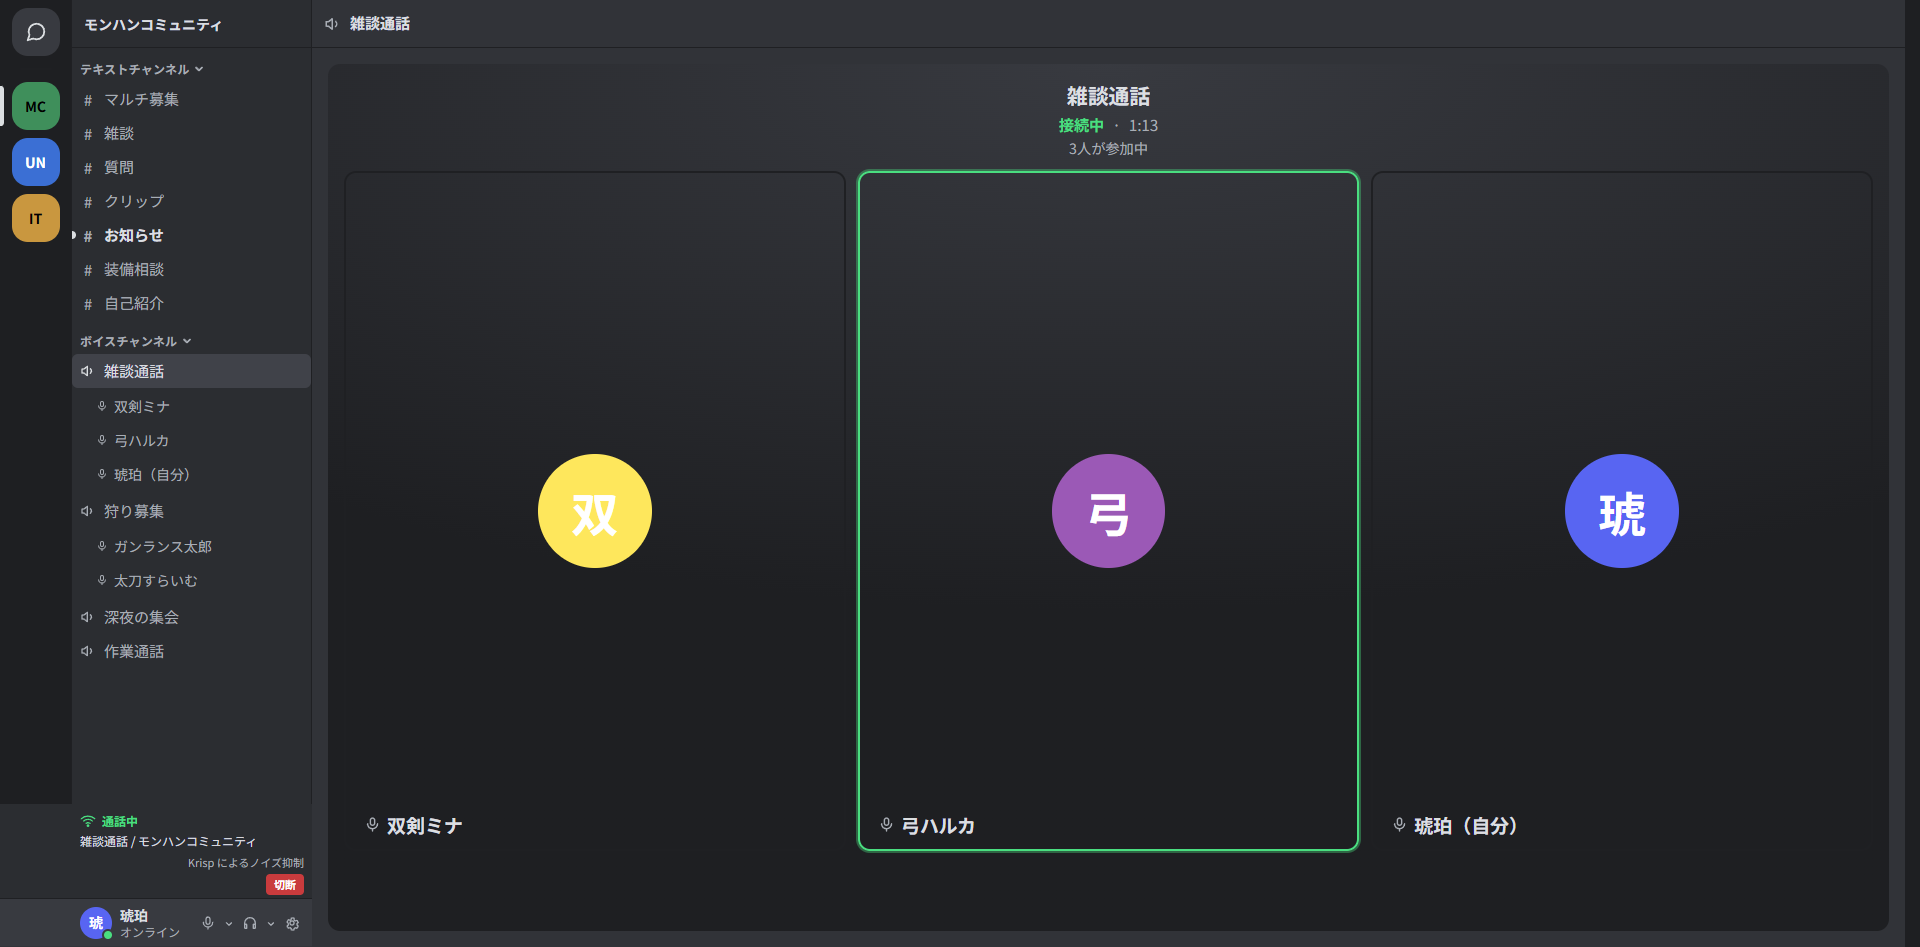
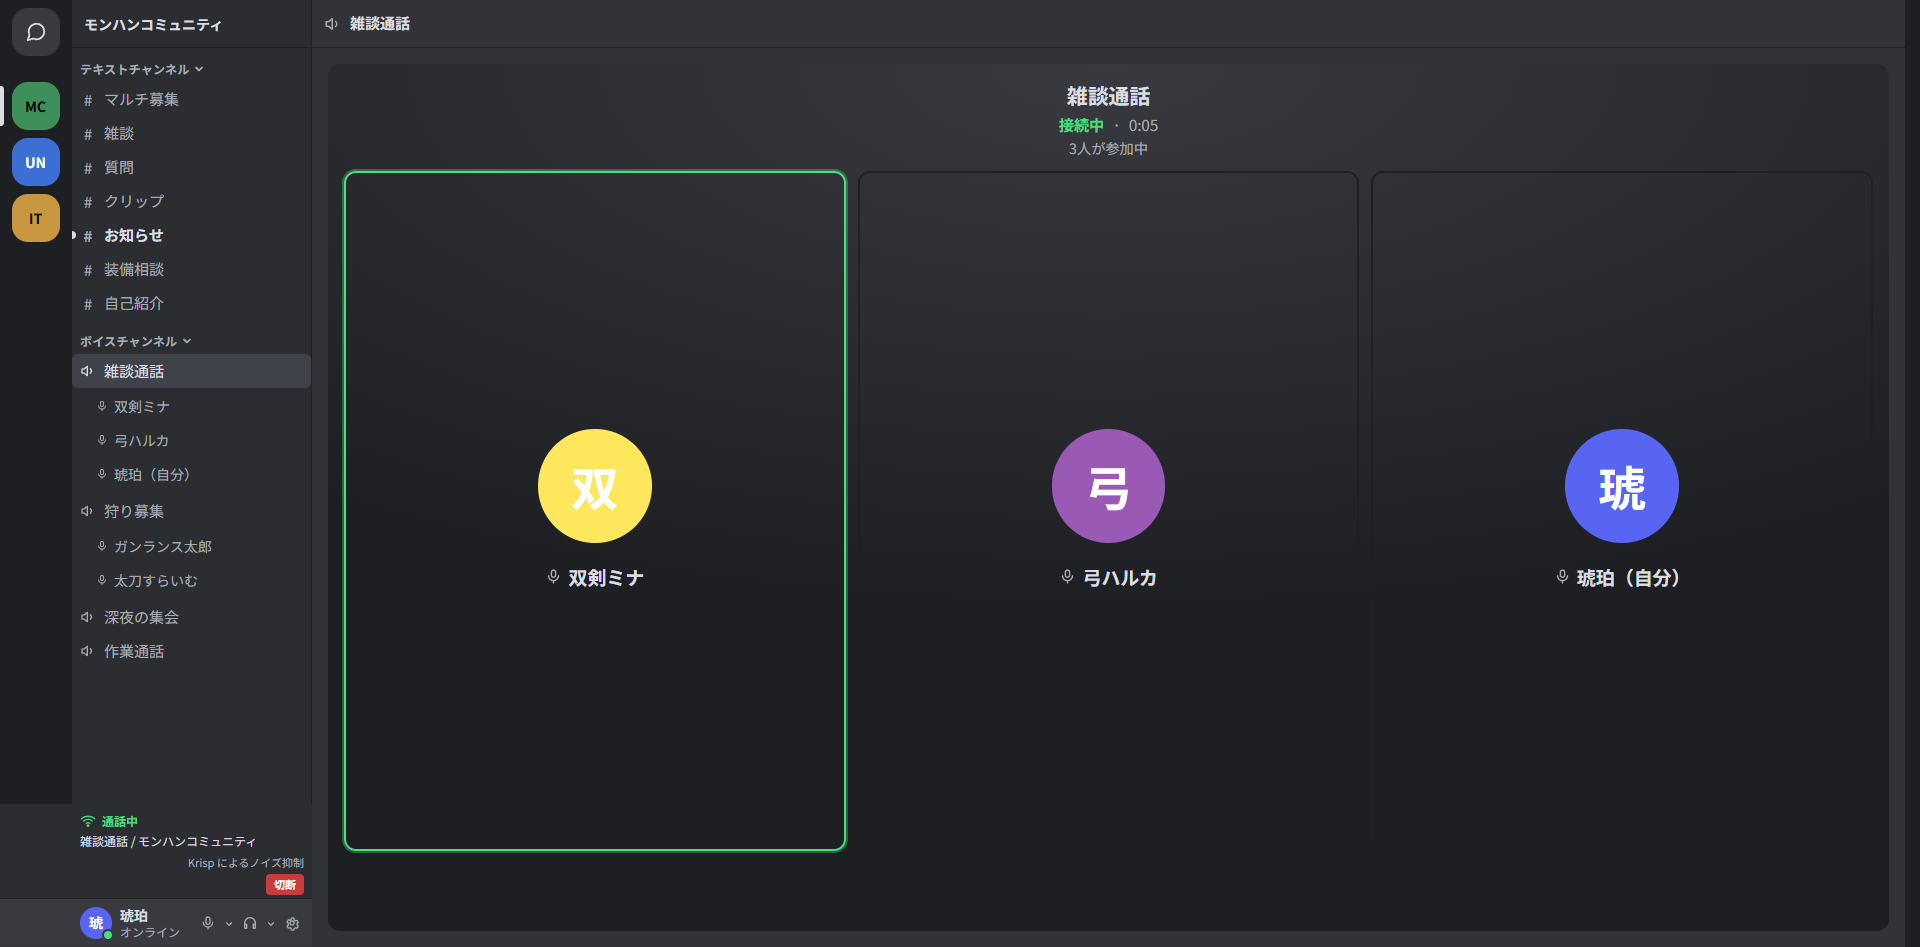
fix(voice): 共有中の自分表示・VCの名前位置・共有プレースホルダーを整える
- 共有中のDM: 自分は幅240pxを確保して名前を切らない。相手は右上160×120の小窓に残す
- VC: 名前をアバター直下（18px）へ寄せ、視線移動を減らす
- 共有プレースホルダーにウィンドウ風の帯・ドット・斜線の面を追加（読み込み失敗に見せない）
- スクショ追加/更新（after-dm-share / after-server-vc）

diff --git a/app/globals.css b/app/globals.css
@@ -6728,9 +6728,8 @@ a.tw-dm-item:focus-visible {
 }
 
 .call-tiles[data-layout="grid"] .call-tile-label {
-  position: absolute;
-  left: 10px;
-  bottom: 8px;
+  position: static;
+  margin-top: 10px;
   gap: 6px;
   padding: 2px 8px;
   border-radius: 8px;
@@ -6816,9 +6815,76 @@ a.tw-dm-item:focus-visible {
   flex: 0 0 auto;
 }
 
-/* DMの共有中: 相手の大タイルは隠し、共有画面と自分の小窓だけにする（レイアウトの跳ねを防ぐ） */
+/* DMの共有中: 相手は右上の小窓に残し、自分は右下に幅を確保（名前を切らない） */
+.call-stage[data-sharing="true"] .call-tiles[data-layout="dm"] {
+  position: absolute;
+  inset: 0;
+  display: block;
+  pointer-events: none;
+}
+
 .call-stage[data-sharing="true"] .call-tiles[data-layout="dm"] .call-tile:first-child {
-  display: none;
+  position: absolute;
+  top: 12px;
+  right: 12px;
+  width: min(160px, 28%);
+  height: 120px;
+  min-height: 0;
+  padding: 4px;
+}
+
+.call-stage[data-sharing="true"] .call-tiles[data-layout="dm"] .call-tile:first-child .call-tile-avatar {
+  width: 56px;
+  height: 56px;
+  font-size: 22px;
+}
+
+.call-stage[data-sharing="true"] .call-tiles[data-layout="dm"] .call-tile:nth-child(2) {
+  width: min(240px, 46%);
+}
+
+/* 共有中のプレースホルダー（ウィンドウ風） */
+.call-share-window {
+  display: grid;
+  gap: 6px;
+  width: min(560px, 72%);
+  margin: 0 auto;
+  padding: 10px;
+  border: 1px solid var(--color-divider);
+  border-radius: 10px;
+  background-color: var(--color-bg-panel);
+}
+
+.call-share-dots {
+  display: flex;
+  gap: 4px;
+}
+
+.call-share-dots i {
+  width: 8px;
+  height: 8px;
+  border-radius: 50%;
+  background-color: var(--color-divider);
+}
+
+.call-share-bar {
+  display: block;
+  height: 8px;
+  border-radius: 4px;
+  background-color: color-mix(in srgb, var(--color-divider) 60%, transparent);
+}
+
+.call-share-canvas {
+  display: block;
+  height: 120px;
+  border-radius: 6px;
+  background-color: color-mix(in srgb, var(--color-bg-input) 85%, transparent);
+  background-image: linear-gradient(
+    135deg,
+    transparent 0 46%,
+    color-mix(in srgb, var(--color-divider) 55%, transparent) 46% 54%,
+    transparent 54%
+  );
 }
 
 /* 参加者一覧（右パネル） */

diff --git a/app/(discord-like)/_components/call-stage.test.tsx b/app/(discord-like)/_components/call-stage.test.tsx
@@ -146,8 +146,13 @@ describe("画面共有中のレイアウト", () => {
     expect(css).toMatch(
       /\.call-stage\[data-sharing="true"\] \.call-tiles\[data-layout="grid"\] \{[^}]*flex-direction: column/,
     );
+    // DMは相手を消さず、右上の小窓に残す
     expect(css).toMatch(
-      /\.call-stage\[data-sharing="true"\] \.call-tiles\[data-layout="dm"\] \.call-tile:first-child \{\s*display: none/,
+      /\.call-stage\[data-sharing="true"\] \.call-tiles\[data-layout="dm"\] \.call-tile:first-child \{[^}]*position: absolute/,
+    );
+    // 共有中の自分は幅を確保（名前を切らない）
+    expect(css).toMatch(
+      /\.call-stage\[data-sharing="true"\] \.call-tiles\[data-layout="dm"\] \.call-tile:nth-child\(2\) \{[^}]*width: min\(240px/,
     );
   });
 });

diff --git a/app/(discord-like)/_components/call-stage.tsx b/app/(discord-like)/_components/call-stage.tsx
@@ -375,6 +375,16 @@ export function CallStage({
 
       {sharing ? (
         <div className="call-share" role="status">
+          {/* 共有中の内容らしく見せる（読み込み失敗に見えないように枠と帯を出す） */}
+          <div className="call-share-window" aria-hidden="true">
+            <span className="call-share-dots">
+              <i />
+              <i />
+              <i />
+            </span>
+            <span className="call-share-bar" />
+            <span className="call-share-canvas" />
+          </div>
           <p>画面を共有しています</p>
           <span className="call-share-hint">停止するには操作バーの「共有を停止」</span>
         </div>
